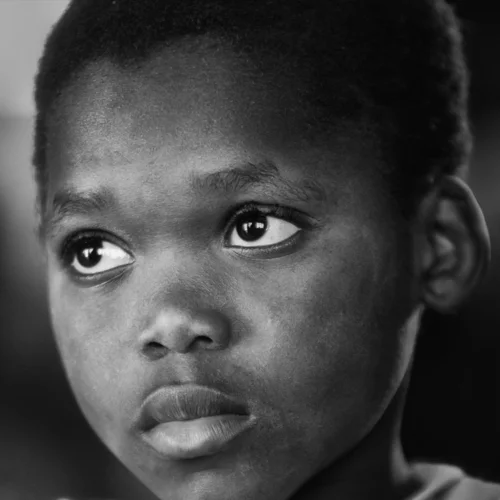
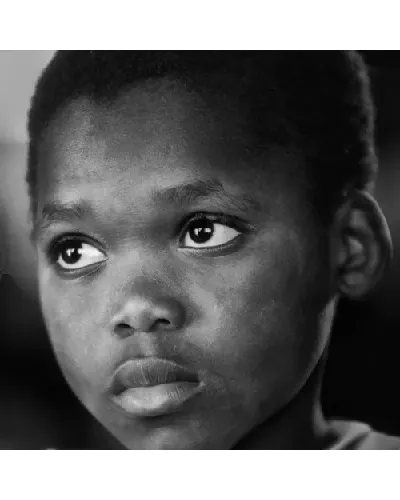
feat: gallery images converted to webp

diff --git a/fixtures/Data.js b/fixtures/Data.js
@@ -251,57 +251,57 @@ export const modalImgData = [
 export const modalGalleryData = [
   {
     id: 1,
-    src: '/gallery/small_01.jpg',
-    firstSrc: '/gallery/medium_01.jpg',
+    src: '/gallery/small_01.webp',
+    firstSrc: '/gallery/medium_01.webp',
     alt: 'a lady smilling with children in the school yard',
     index: 0,
   },
   {
     id: 2,
-    src: '/gallery/small_02.png',
-    firstSrc: '/gallery/medium_02.png',
+    src: '/gallery/small_02.webp',
+    firstSrc: '/gallery/medium_02.webp',
     alt: 'children in the school yard waving at the camera',
     index: 1,
   },
   {
     id: 3,
-    src: '/gallery/small_03.png',
-    firstSrc: '/gallery/medium_03.png',
+    src: '/gallery/small_03.webp',
+    firstSrc: '/gallery/medium_03.webp',
     alt: 'children in the school yard posing for the camera',
     index: 2,
   },
   {
     id: 4,
-    src: '/gallery/small_04.png',
-    firstSrc: '/gallery/medium_04.png',
+    src: '/gallery/small_04.webp',
+    firstSrc: '/gallery/medium_04.webp',
     alt: 'a lady in black accompanying a child she rendered help to',
     index: 3,
   },
   {
     id: 5,
-    src: '/gallery/small_05.png',
-    firstSrc: '/gallery/medium_05.png',
+    src: '/gallery/small_05.webp',
+    firstSrc: '/gallery/medium_05.webp',
     alt: 'a lady in black waiting for a child to come out of the of a house',
     index: 4,
   },
   {
     id: 6,
-    src: '/gallery/small_06.png',
-    firstSrc: '/gallery/medium_06.png',
+    src: '/gallery/small_06.webp',
+    firstSrc: '/gallery/medium_06.webp',
     alt: 'two adults caring for a child-girl',
     index: 5,
   },
   {
     id: 7,
-    src: '/gallery/small_07.png',
-    firstSrc: '/gallery/medium_07.png',
+    src: '/gallery/small_07.webp',
+    firstSrc: '/gallery/medium_07.webp',
     alt: 'children in the school yard waiting for AprilMission Group',
     index: 6,
   },
   {
     id: 8,
-    src: '/gallery/small_08.png',
-    firstSrc: '/gallery/medium_08.png',
+    src: '/gallery/small_08.webp',
+    firstSrc: '/gallery/medium_08.webp',
     alt: 'AprilMission Chairman with a child he rendered help to',
     index: 7,
   },
